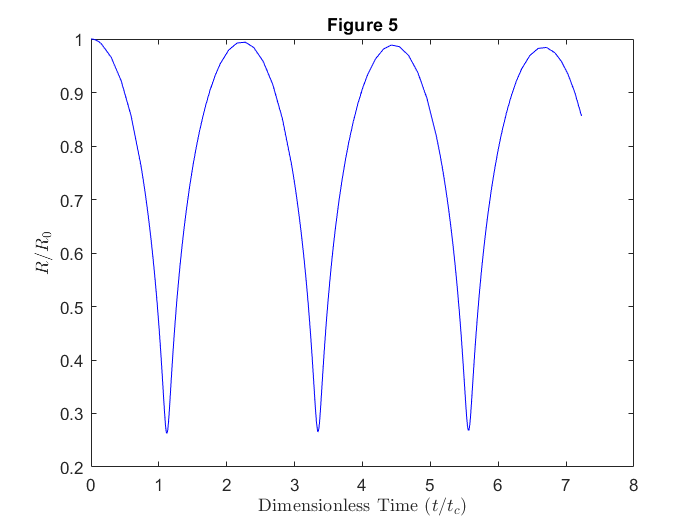
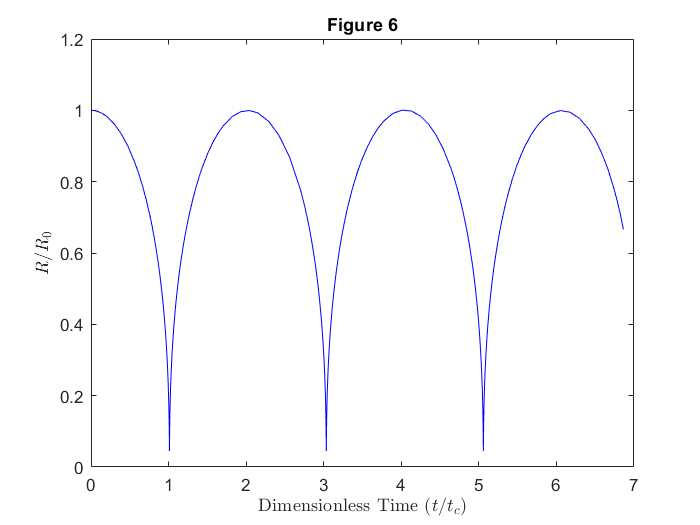
added fig6

diff --git a/main.m b/main.m
@@ -13,7 +13,7 @@ t_w = 1E-5;        % time window
 
 % INPUT VALUES
 R0 = [2.4E-03; 0];  % initial condition
-t_f = 5.0E-4;            % final time
+t_f = 1.5E-4;            % final time
 phi = 0;            % phase shift of gaussian waveform
 
 % VECTOR FOR CONSTANTS
@@ -38,6 +38,6 @@ tspan = [0, t_f];
 % PLOT
 t_c = 0.915*R0(1) * sqrt(rho_L/(f_p_inf(t, constants)-p_vTb)); % appx. time for cavitation
 plot(t/t_c,y(:,1)/R0(1), 'Color', 'Blue')
-title('Figure 5')
+title('Figure 6')
 ylabel('$R/R_0$','Interpreter','latex')
 xlabel('Dimensionless Time ($t/t_c$)','Interpreter','latex')

diff --git a/src/f_p_inf.m b/src/f_p_inf.m
@@ -9,5 +9,5 @@ function pressure = f_p_inf(t, constants)
     phi = constants(11);
     % EVALUATE
     % pressure = p_inf0 * (1- A.*exp((phi-t)./t_w).^2);
-    pressure = 10*p_atm;
+    pressure = 100*p_atm;
 end
